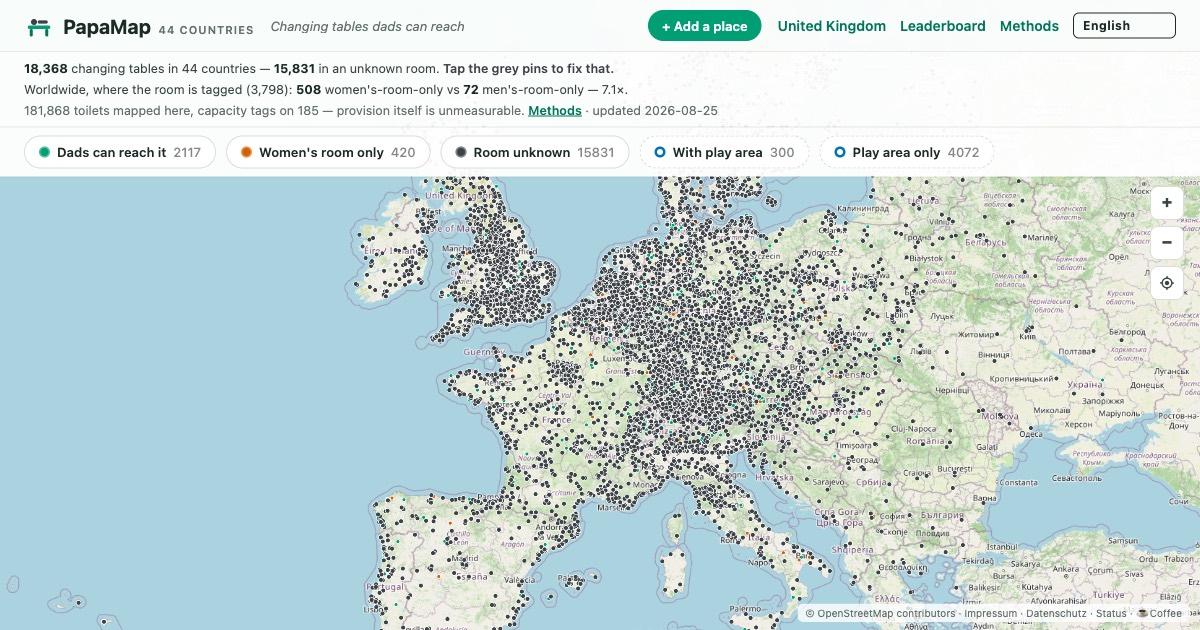
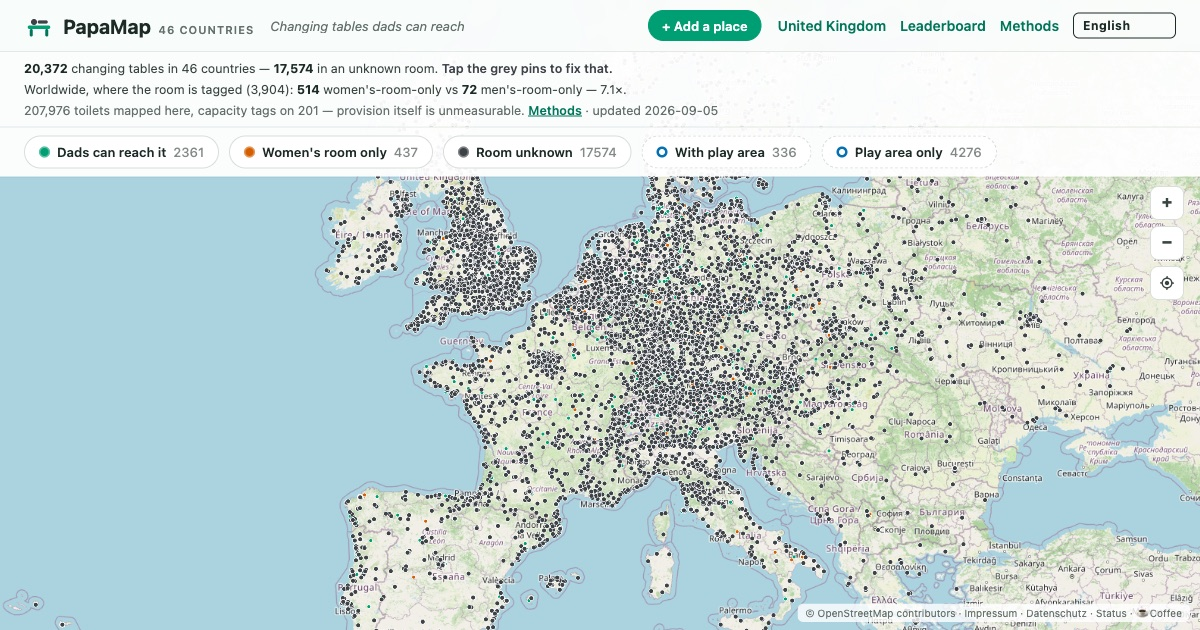
Refresh both social cards for the 46-country map (#83)
The two OG cards were still the 2026-08-25 screenshots reading "44 LÄNDER /
18.368 Wickeltische" while every page behind them has said 46 countries and
20,370 pins since PR #82 — the same contradiction PR #70 fixed for the
eleven-country card.

- new 1200x630 screenshots of the live site at ?lang=de and ?lang=en, same
  European mainland framing as before (the two new countries are on the other
  side of the planet; a world frame would shrink every pin to a dot), header
  strip carrying the live counts and "Stand 2026-09-05"
- the version pin moves from ?v=eu44 to ?v=w46 on index.html, the generated
  index-en.html and OG_IMAGE_VERSION in pages.py, so the scrapers and the
  Cloudflare edge fetch the new files instead of serving the cached card

diff --git a/web/index-en.html b/web/index-en.html
@@ -18,7 +18,7 @@
   <meta property="og:description" content="A map of every changing table in 46 countries, coloured by whether a dad can actually reach it. Data: OpenStreetMap." />
   <meta property="og:type" content="website" />
   <meta property="og:url" content="https://papamap.de/?lang=en" />
-  <meta property="og:image" content="https://papamap.de/og-image-en.jpg?v=eu44" />
+  <meta property="og:image" content="https://papamap.de/og-image-en.jpg?v=w46" />
   <meta property="og:image:width" content="1200" />
   <meta property="og:image:height" content="630" />
   <meta property="og:locale" content="en_GB" />

diff --git a/web/index.html b/web/index.html
@@ -18,7 +18,7 @@
   <meta property="og:description" content="Eine Karte der Wickeltische in 46 Ländern, eingefärbt danach, ob ein Papa sie tatsächlich erreicht. Daten: OpenStreetMap." />
   <meta property="og:type" content="website" />
   <meta property="og:url" content="https://papamap.de/" />
-  <meta property="og:image" content="https://papamap.de/og-image.jpg?v=eu44" />
+  <meta property="og:image" content="https://papamap.de/og-image.jpg?v=w46" />
   <meta property="og:image:width" content="1200" />
   <meta property="og:image:height" content="630" />
   <meta property="og:locale" content="de_DE" />

diff --git a/pipeline/pages.py b/pipeline/pages.py
@@ -313,7 +313,7 @@ FOOTER = L["de"]["footer"]
 # picture ships under a new ?v= or the edge keeps serving the old one.
 OG_IMAGE = {"de": "og-image.jpg"}
 OG_IMAGE_FALLBACK = "og-image-en.jpg"
-OG_IMAGE_VERSION = "eu44"
+OG_IMAGE_VERSION = "w46"
 OG_IMAGE_SIZE = (1200, 630)
 
 
